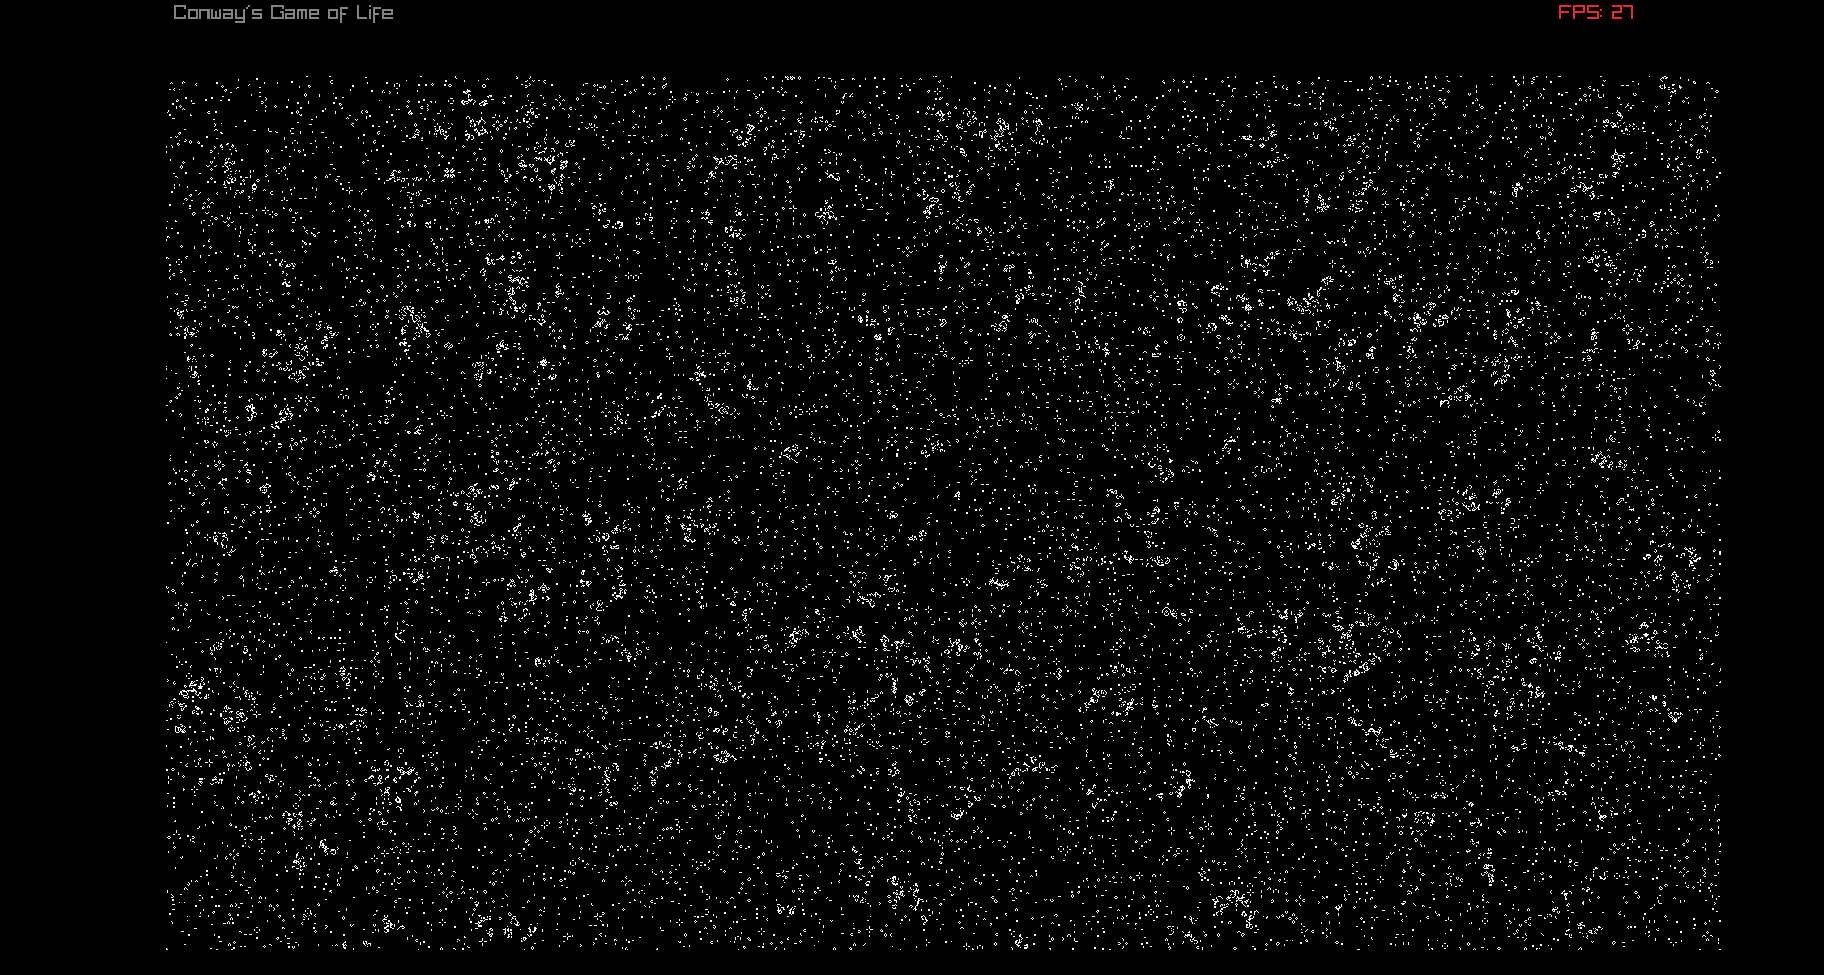
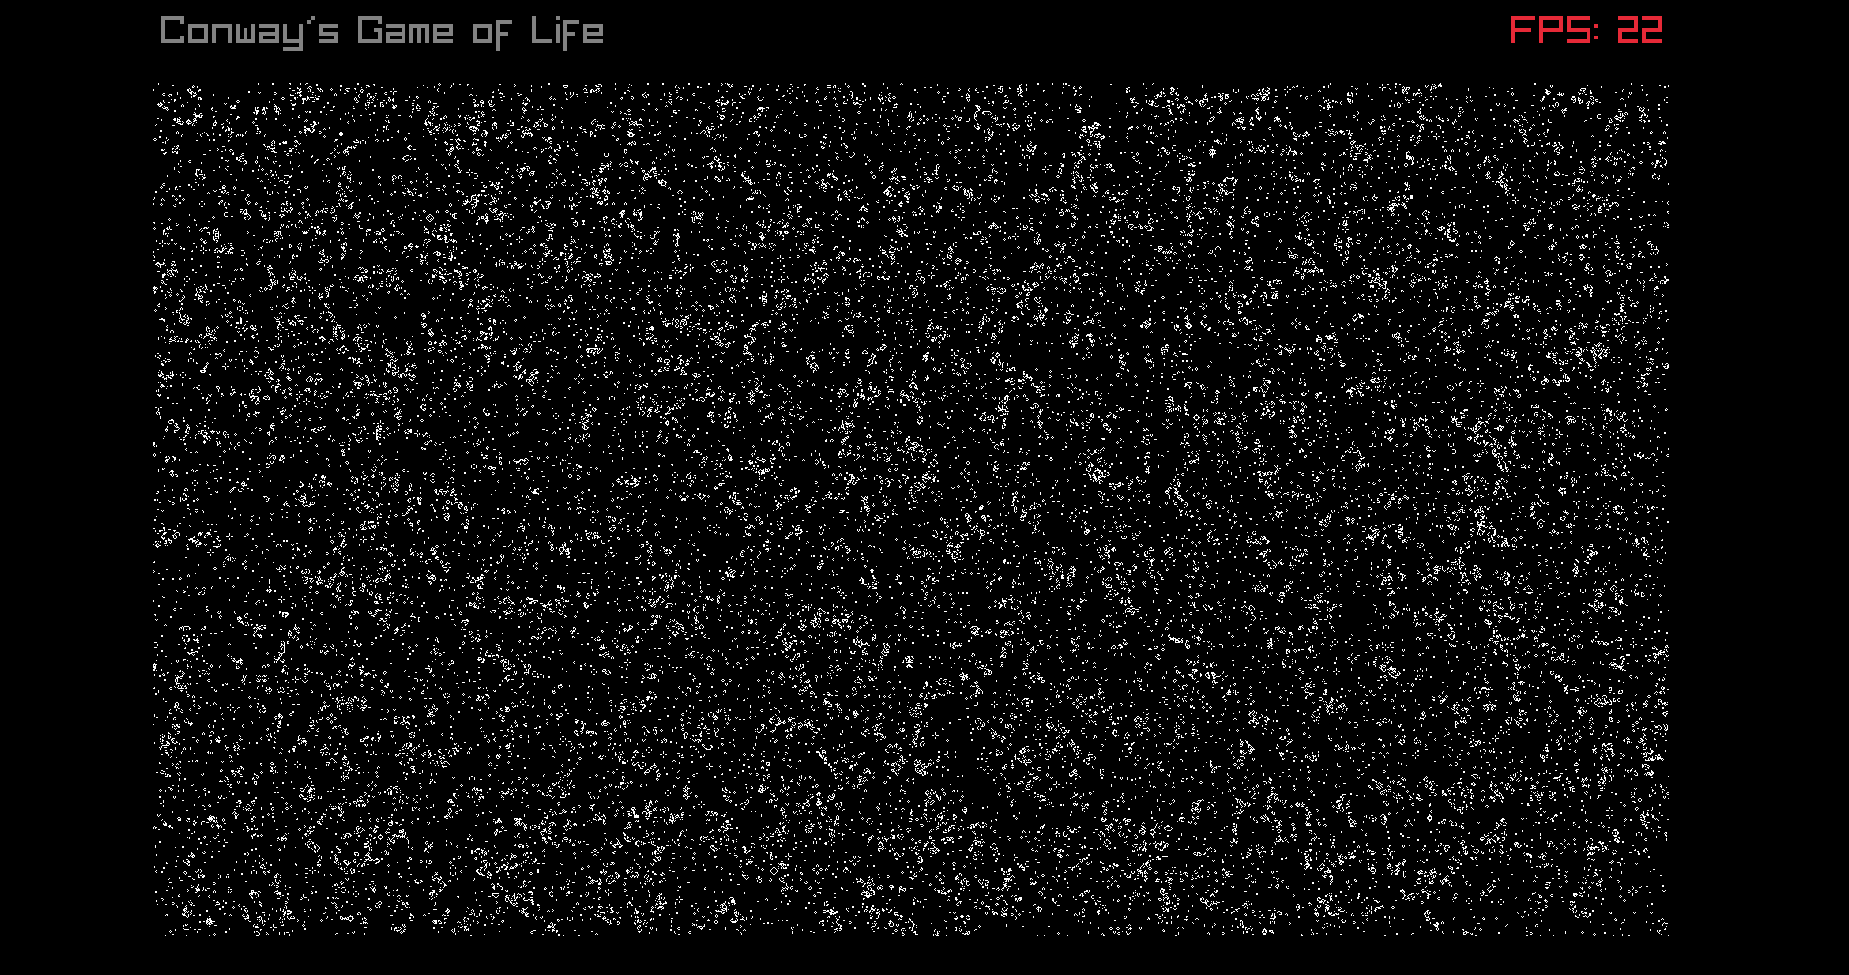
Minor changes

Changed region(s): [[0.0938, 0.0923, 0.9062, 0.9538], [0.0938, 0.0, 0.3438, 0.0615], [0.8125, 0.0, 0.9062, 0.0615]]

diff --git a/GameOfLife.cpp b/GameOfLife.cpp
@@ -314,8 +314,8 @@ int main() {
 
 #ifdef GAME_LIFE
     ClearBackground(BLACK);
-    DrawText("Conway's Game of Life", 10, 10, 25, GRAY);
-    DrawText(fps.c_str(), WIDTH - 200, 10, 25, RED);
+    DrawText("Conway's Game of Life", 10, 10, 50, GRAY);
+    DrawText(fps.c_str(), WIDTH - 200, 10, 50, RED);
 
     for (int i = 0; i < (int)(WIDTH / SQUARE_SIDE); ++i) {
       for (int j = 0; j < (int)(HEIGHT / SQUARE_SIDE); ++j) {

diff --git a/README.md b/README.md
@@ -10,7 +10,7 @@ make
 
 Step 3)
 
-Controls --> 
+Controls -->   
 W A S D ==> up down left right   
 R ==> restart the game   
 UP ARROW ==> Zoom in   
@@ -20,6 +20,14 @@ IMAGE -->
 
 
 ![Game of Life](https://github.com/Aggerio/Game-of-LIfe/blob/Master/img/2023-06-11_15-32.png)
+
+you can also play with the width and height of the game of life and the screen height and width   
+
+
+there a set of macros defined on the top of GameOfLife.cpp which you can modify  
+to change the square size, screen width , screen height, zoom speed, pan speed 
+
+so you can modify it according to you
  
 
 
